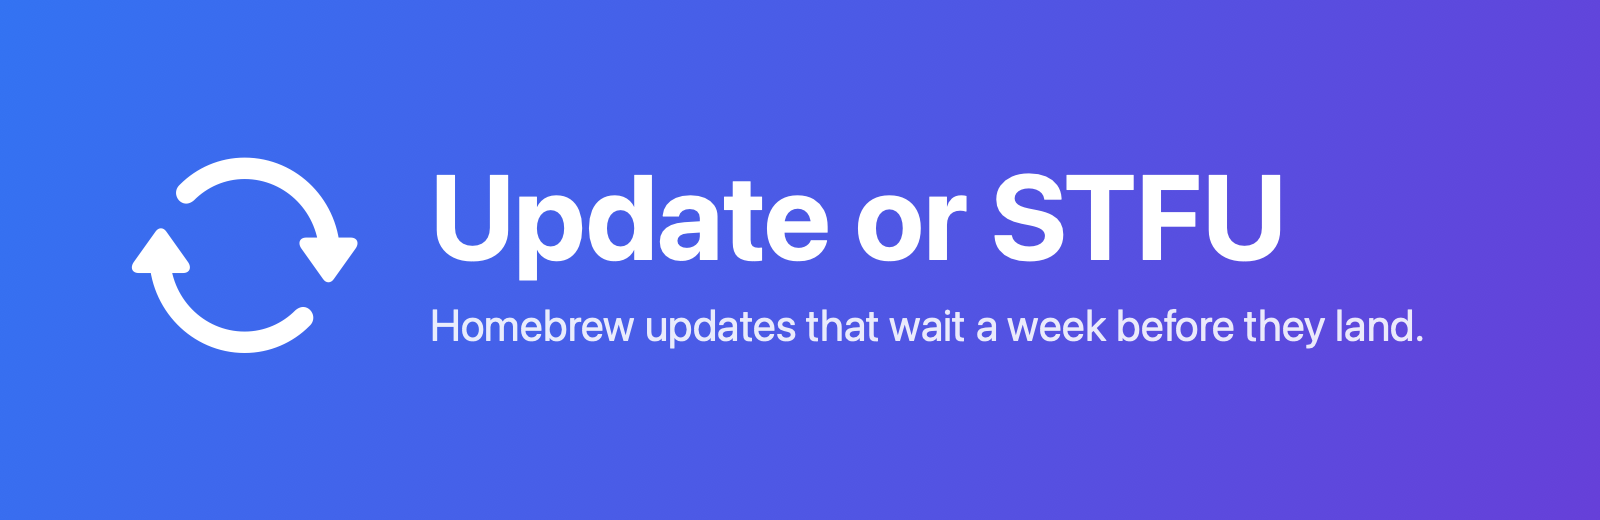
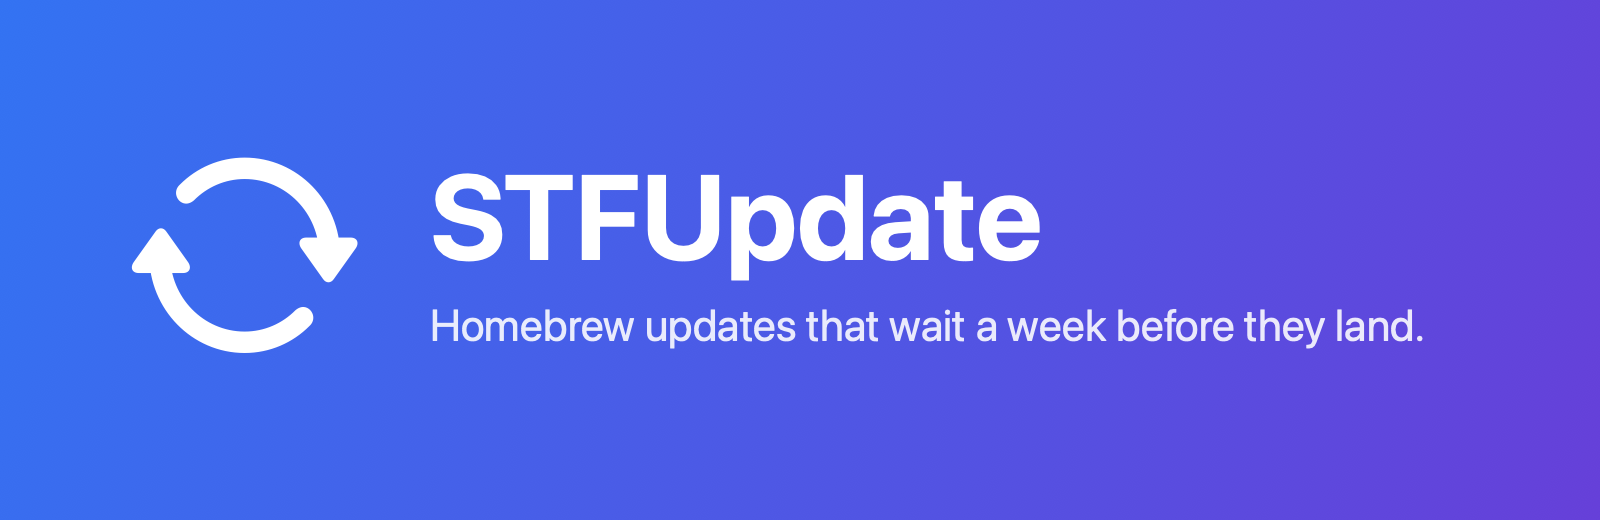
Rename to STFUpdate; bump to 1.0.2
Renames the script, app bundle, launchd label, and config/state paths
from update-or-stfu to stfupdate (the pre-1.0 com.user.* migration
label is unaffected). Adds README badges and a refreshed banner.

Changed region(s): [[0.25, 0.3077, 0.8125, 0.5538]]

diff --git a/app/Bootstrap.swift b/app/Bootstrap.swift
@@ -1,17 +1,17 @@
 // First-run setup for the drag-to-Applications build. The app carries a copy of the shell script in
 // Resources; launchd can't run scripts from inside a quarantined bundle reliably, so it is copied to
 // ~/.local/bin (where the rest of the app expects it) and the scheduler is loaded from there.
-// Builds installed with `update-or-stfu app-install` have no bundled script and skip all of this.
+// Builds installed with `stfupdate app-install` have no bundled script and skip all of this.
 import AppKit
 import ServiceManagement
 
 enum Bootstrap {
-    static var bundled: String? { Bundle.main.path(forResource: "update-or-stfu", ofType: nil) }
+    static var bundled: String? { Bundle.main.path(forResource: "stfupdate", ofType: nil) }
     static var installedByScript: Bool {
         FileManager.default.fileExists(atPath: Paths.home + "/Library/LaunchAgents/\(Paths.label).app.plist")
     }
 
-    /// Keeps ~/.local/bin/update-or-stfu in step with the bundled copy; asks once before setting up.
+    /// Keeps ~/.local/bin/stfupdate in step with the bundled copy; asks once before setting up.
     static func run() {
         guard let src = bundled, !installedByScript else { return }
         let fm = FileManager.default
@@ -23,7 +23,7 @@ enum Bootstrap {
 
         if fresh {
             let a = NSAlert()
-            a.messageText = "Set up Update or STFU?"
+            a.messageText = "Set up STFUpdate?"
             a.informativeText = """
                 It will check Homebrew every 6 hours and install a new version only after it has been \
                 available for 7 days (change this in Settings). Docker updates are not delayed. \
@@ -49,7 +49,7 @@ enum Bootstrap {
 
     static func uninstall() {
         let a = NSAlert()
-        a.messageText = "Uninstall Update or STFU?"
+        a.messageText = "Uninstall STFUpdate?"
         a.informativeText = "Stops the scheduler and removes the login item and installed script. Your settings and logs are kept. Then move the app to the Trash."
         a.addButton(withTitle: "Uninstall")
         a.addButton(withTitle: "Cancel")

diff --git a/app/Core.swift b/app/Core.swift
@@ -1,4 +1,4 @@
-// Shared model for the Update or STFU app: paths, state files, config, shell helpers.
+// Shared model for the STFUpdate app: paths, state files, config, shell helpers.
 // Zero dependencies: Foundation/AppKit only. The shell script remains the source of truth;
 // this app reads its state files and shells out to it for every action.
 import AppKit
@@ -7,15 +7,15 @@ import Foundation
 enum Paths {
     /// UOS_HOME redirects every path (used by tools/screenshots.sh so demo data never touches real state).
     static let home = ProcessInfo.processInfo.environment["UOS_HOME"] ?? NSHomeDirectory()
-    static let stateDir = home + "/.local/state/update-or-stfu"
+    static let stateDir = home + "/.local/state/stfupdate"
     static let seen = stateDir + "/seen.tsv"
     static let needsYou = stateDir + "/needs-you.tsv"
     static let events = stateDir + "/events.tsv"
     static let masCount = stateDir + "/mas.count"
     static let log = stateDir + "/update.log"
-    static let conf = home + "/.config/update-or-stfu/config"
-    static let script = home + "/.local/bin/update-or-stfu"
-    static let label = "com.konukoii.update-or-stfu"
+    static let conf = home + "/.config/stfupdate/config"
+    static let script = home + "/.local/bin/stfupdate"
+    static let label = "com.konukoii.stfupdate"
     static let plist = home + "/Library/LaunchAgents/\(label).plist"
     static let domain = "gui/\(getuid())"
 }
@@ -70,7 +70,7 @@ struct Config: Equatable {
 
     func save() {
         let text = """
-        # update-or-stfu config (sourced by zsh; the app's Settings window rewrites this file)
+        # stfupdate config (sourced by zsh; the app's Settings window rewrites this file)
         THAW_DAYS=\(thawDays)
         CHECK_EVERY_HOURS=\(checkEveryHours)
         NO_THAW=(\(noThaw.joined(separator: " ")))

diff --git a/app/App.swift b/app/App.swift
@@ -37,7 +37,7 @@ final class AppDelegate: NSObject, NSApplicationDelegate, NSMenuDelegate {
         else if m.busy { symbol = "arrow.triangle.2.circlepath.circle.fill" }
         else if !m.needsYou.isEmpty { symbol = "exclamationmark.circle.fill" }
         else { symbol = "arrow.triangle.2.circlepath.circle" }
-        button.image = NSImage(systemSymbolName: symbol, accessibilityDescription: "Update or STFU")
+        button.image = NSImage(systemSymbolName: symbol, accessibilityDescription: "STFUpdate")
         let count = m.needsYou.isEmpty ? m.pending.count : m.needsYou.count
         button.title = count > 0 ? " \(count)" : ""
     }
@@ -49,7 +49,7 @@ final class AppDelegate: NSObject, NSApplicationDelegate, NSMenuDelegate {
         updateIcon()
         menu.removeAllItems()
 
-        info(menu, m.agentLoaded ? "Update or STFU · active · \(m.config.thawDays)d thaw" : "Update or STFU · PAUSED", bold: true)
+        info(menu, m.agentLoaded ? "STFUpdate · active · \(m.config.thawDays)d thaw" : "STFUpdate · PAUSED", bold: true)
         info(menu, m.busy ? m.busyLabel : m.lastRun)
         menu.addItem(.separator())
 
@@ -98,7 +98,7 @@ final class AppDelegate: NSObject, NSApplicationDelegate, NSMenuDelegate {
         }
 
         menu.addItem(.separator())
-        action(menu, "Open Update or STFU…", #selector(openStatus), key: "o", symbol: "list.bullet.rectangle")
+        action(menu, "Open STFUpdate…", #selector(openStatus), key: "o", symbol: "list.bullet.rectangle")
         let check = action(menu, "Check now", #selector(checkNow), key: "r", symbol: "arrow.clockwise")
         check.isEnabled = !m.busy
         action(menu, m.agentLoaded ? "Pause scheduled checks" : "Resume scheduled checks", #selector(toggleAgent),

diff --git a/app/Windows.swift b/app/Windows.swift
@@ -27,7 +27,7 @@ final class Windows {
         NSApp.activate(ignoringOtherApps: true)
     }
 
-    func status() { show("status", title: "Update or STFU", size: NSSize(width: 560, height: 640)) { StatusView() } }
+    func status() { show("status", title: "STFUpdate", size: NSSize(width: 560, height: 640)) { StatusView() } }
     func activity() { show("activity", title: "Activity", size: NSSize(width: 760, height: 520)) { ActivityView() } }
     func settings() { show("settings", title: "Settings", size: NSSize(width: 480, height: 560)) { SettingsView() } }
 }
@@ -248,7 +248,7 @@ struct SettingsView: View {
     @State private var loginStatus = SMAppService.mainApp.status
 
     /// Applies immediately (it isn't part of the saved config). Only for the drag-to-Applications build;
-    /// `update-or-stfu app-install` starts the app from its own LaunchAgent.
+    /// `stfupdate app-install` starts the app from its own LaunchAgent.
     private var launchAtLogin: Binding<Bool> {
         Binding(get: { loginStatus == .enabled },
                 set: { on in
@@ -263,7 +263,7 @@ struct SettingsView: View {
             Form {
                 if Bootstrap.bundled != nil && !Bootstrap.installedByScript {
                     Section("Startup") {
-                        Toggle("Open Update or STFU at login", isOn: launchAtLogin)
+                        Toggle("Open STFUpdate at login", isOn: launchAtLogin)
                         if loginStatus == .requiresApproval {
                             Text("Approve it in System Settings › General › Login Items.")
                                 .font(.caption).foregroundStyle(.secondary)

diff --git a/tools/render-screenshots.swift b/tools/render-screenshots.swift
@@ -92,7 +92,7 @@ func render<V: View>(_ name: String, title: String, size: NSSize, dark: Bool, @V
     print("wrote \(url.path) \(rep.pixelsWide)x\(rep.pixelsHigh)")
 }
 
-render("status", title: "Update or STFU", size: NSSize(width: 560, height: 640), dark: false) { StatusView() }
-render("status-dark", title: "Update or STFU", size: NSSize(width: 560, height: 640), dark: true) { StatusView() }
+render("status", title: "STFUpdate", size: NSSize(width: 560, height: 640), dark: false) { StatusView() }
+render("status-dark", title: "STFUpdate", size: NSSize(width: 560, height: 640), dark: true) { StatusView() }
 render("activity", title: "Activity", size: NSSize(width: 760, height: 520), dark: true) { ActivityView() }
 render("settings", title: "Settings", size: NSSize(width: 480, height: 560), dark: false) { SettingsView() }

diff --git a/tools/make-banner.swift b/tools/make-banner.swift
@@ -17,7 +17,7 @@ func text(_ s: String, size: CGFloat, weight: NSFont.Weight, alpha: CGFloat, y: 
                                                .foregroundColor: NSColor.white.withAlphaComponent(alpha)])
         .draw(at: NSPoint(x: 430, y: y))
 }
-text("Update or STFU", size: 120, weight: .bold, alpha: 1, y: 235)
+text("STFUpdate", size: 120, weight: .bold, alpha: 1, y: 235)
 text("Homebrew updates that wait a week before they land.", size: 44, weight: .regular, alpha: 0.88, y: 170)
 NSGraphicsContext.restoreGraphicsState()
 try! rep.representation(using: .png, properties: [:])!.write(to: URL(fileURLWithPath: CommandLine.arguments[1]))

diff --git a/README.md b/README.md
@@ -1,6 +1,11 @@
-![Update or STFU](docs/banner.png)
+![STFUpdate](docs/banner.png)
 
-# Update or STFU
+# STFUpdate
+
+[![ci](https://badgen.net/github/checks/pmsosa/update-or-stfu?label=ci)](https://github.com/pmsosa/update-or-stfu/actions)
+[![release](https://badgen.net/github/release/pmsosa/update-or-stfu)](https://github.com/pmsosa/update-or-stfu/releases)
+[![license](https://badgen.net/github/license/pmsosa/update-or-stfu)](LICENSE)
+[![platform](https://badgen.net/badge/platform/macOS/blue)](#install)
 
 Automatic Homebrew updates with a **thaw period**: a new version is installed only after Homebrew has
 offered it for a number of days (7 by default). If it was a bad or compromised release, there's a good
@@ -46,7 +51,7 @@ Thaw days, how often to check, which packages install immediately (Docker by def
 
 ```mermaid
 flowchart LR
-  L[launchd, every 6h] --> R[update-or-stfu run]
+  L[launchd, every 6h] --> R[stfupdate run]
   R -->|brew update, brew outdated| B[(Homebrew)]
   R --> S[(seen.tsv: first time each version was seen)]
   S -->|age >= THAW_DAYS| U[brew upgrade]
@@ -65,14 +70,14 @@ benefit of both.
 
 **Download:** grab the DMG from [Releases](../../releases), drag the app to Applications, open it, and
 click *Set Up*. It is signed with a Developer ID and notarized by Apple, so it opens without warnings.
-Turn on *Open Update or STFU at login* in Settings if you want it running after a restart.
+Turn on *Open STFUpdate at login* in Settings if you want it running after a restart.
 
 **From source** (needs the Xcode Command Line Tools):
 
 ```sh
 git clone https://github.com/pmsosa/update-or-stfu && cd update-or-stfu
-./update-or-stfu install       # scheduler only, no app
-./update-or-stfu app-install   # scheduler + menu bar app
+./stfupdate install       # scheduler only, no app
+./stfupdate app-install   # scheduler + menu bar app
 ```
 
 Requires macOS 13+ and [Homebrew](https://brew.sh).
@@ -96,7 +101,7 @@ self-update (`--greedy`). Turn that off with `GREEDY_CASKS=0`.
 
 ## Configuration
 
-Settings are in the app (Settings…) or in `~/.config/update-or-stfu/config`:
+Settings are in the app (Settings…) or in `~/.config/stfupdate/config`:
 
 ```sh
 THAW_DAYS=7
@@ -112,23 +117,23 @@ NOTIFY=1
 ## Command line
 
 ```
-update-or-stfu run [--dry-run]   check and upgrade now
-update-or-stfu status            pending updates and their age
-update-or-stfu now KIND NAME     upgrade one package immediately (kind: formula | cask)
-update-or-stfu clear KIND NAME   forget a pending entry
-update-or-stfu uninstall         remove agents, app and installed script
+stfupdate run [--dry-run]   check and upgrade now
+stfupdate status            pending updates and their age
+stfupdate now KIND NAME     upgrade one package immediately (kind: formula | cask)
+stfupdate clear KIND NAME   forget a pending entry
+stfupdate uninstall         remove agents, app and installed script
 ```
 
-Try `update-or-stfu run --dry-run` first to see what it would do.
+Try `stfupdate run --dry-run` first to see what it would do.
 
 ## Files
 
 | Path | What |
 | --- | --- |
-| `~/.local/bin/update-or-stfu` | installed copy of the script |
-| `~/.config/update-or-stfu/config` | settings |
-| `~/.local/state/update-or-stfu/` | seen versions, needs-you list, log |
-| `~/Library/LaunchAgents/com.konukoii.update-or-stfu*.plist` | scheduler and app login agents |
+| `~/.local/bin/stfupdate` | installed copy of the script |
+| `~/.config/stfupdate/config` | settings |
+| `~/.local/state/stfupdate/` | seen versions, needs-you list, log |
+| `~/Library/LaunchAgents/com.konukoii.stfupdate*.plist` | scheduler and app login agents |
 
 Uninstall removes the agents, app and script, and leaves the config and state.
 

diff --git a/CHANGELOG.md b/CHANGELOG.md
@@ -1,5 +1,11 @@
 # Changelog
 
+## 1.0.2 (2026-11-03)
+
+- Renamed the tool to STFUpdate: script, app bundle, launchd label, and config/state paths all moved
+  from `update-or-stfu` to `stfupdate` (pre-1.0 `com.user.*` label migration is unaffected).
+- README: badges, refreshed banner.
+
 ## 1.0.1 (2026-10-31)
 
 - Fix: upgrading from the pre-1.0 install (old `com.user.*` agents) left the app showing PAUSED, because
